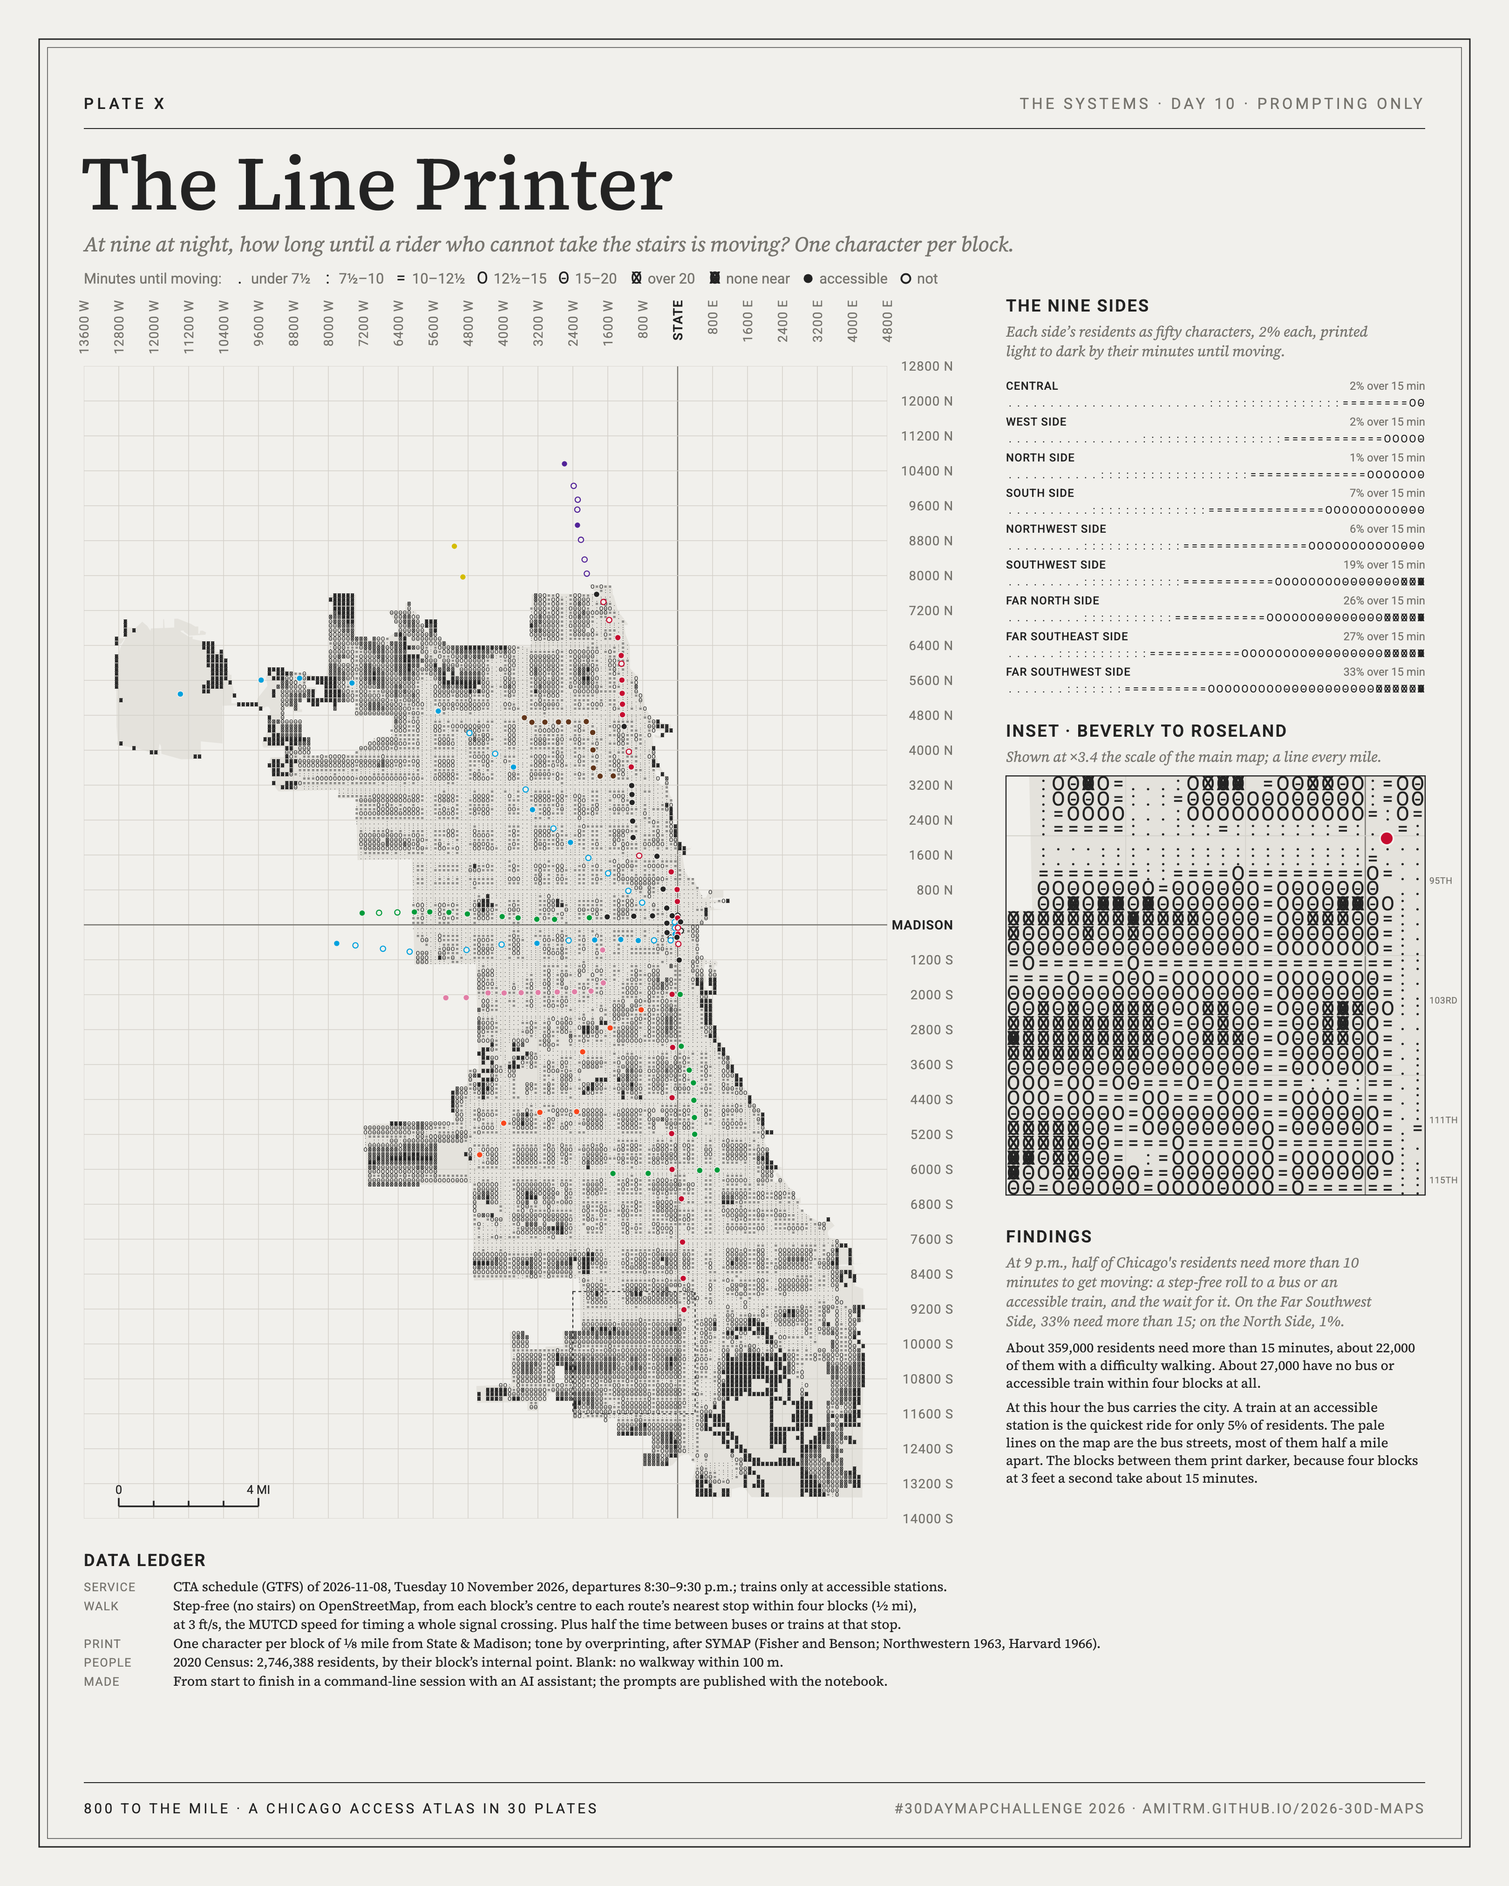
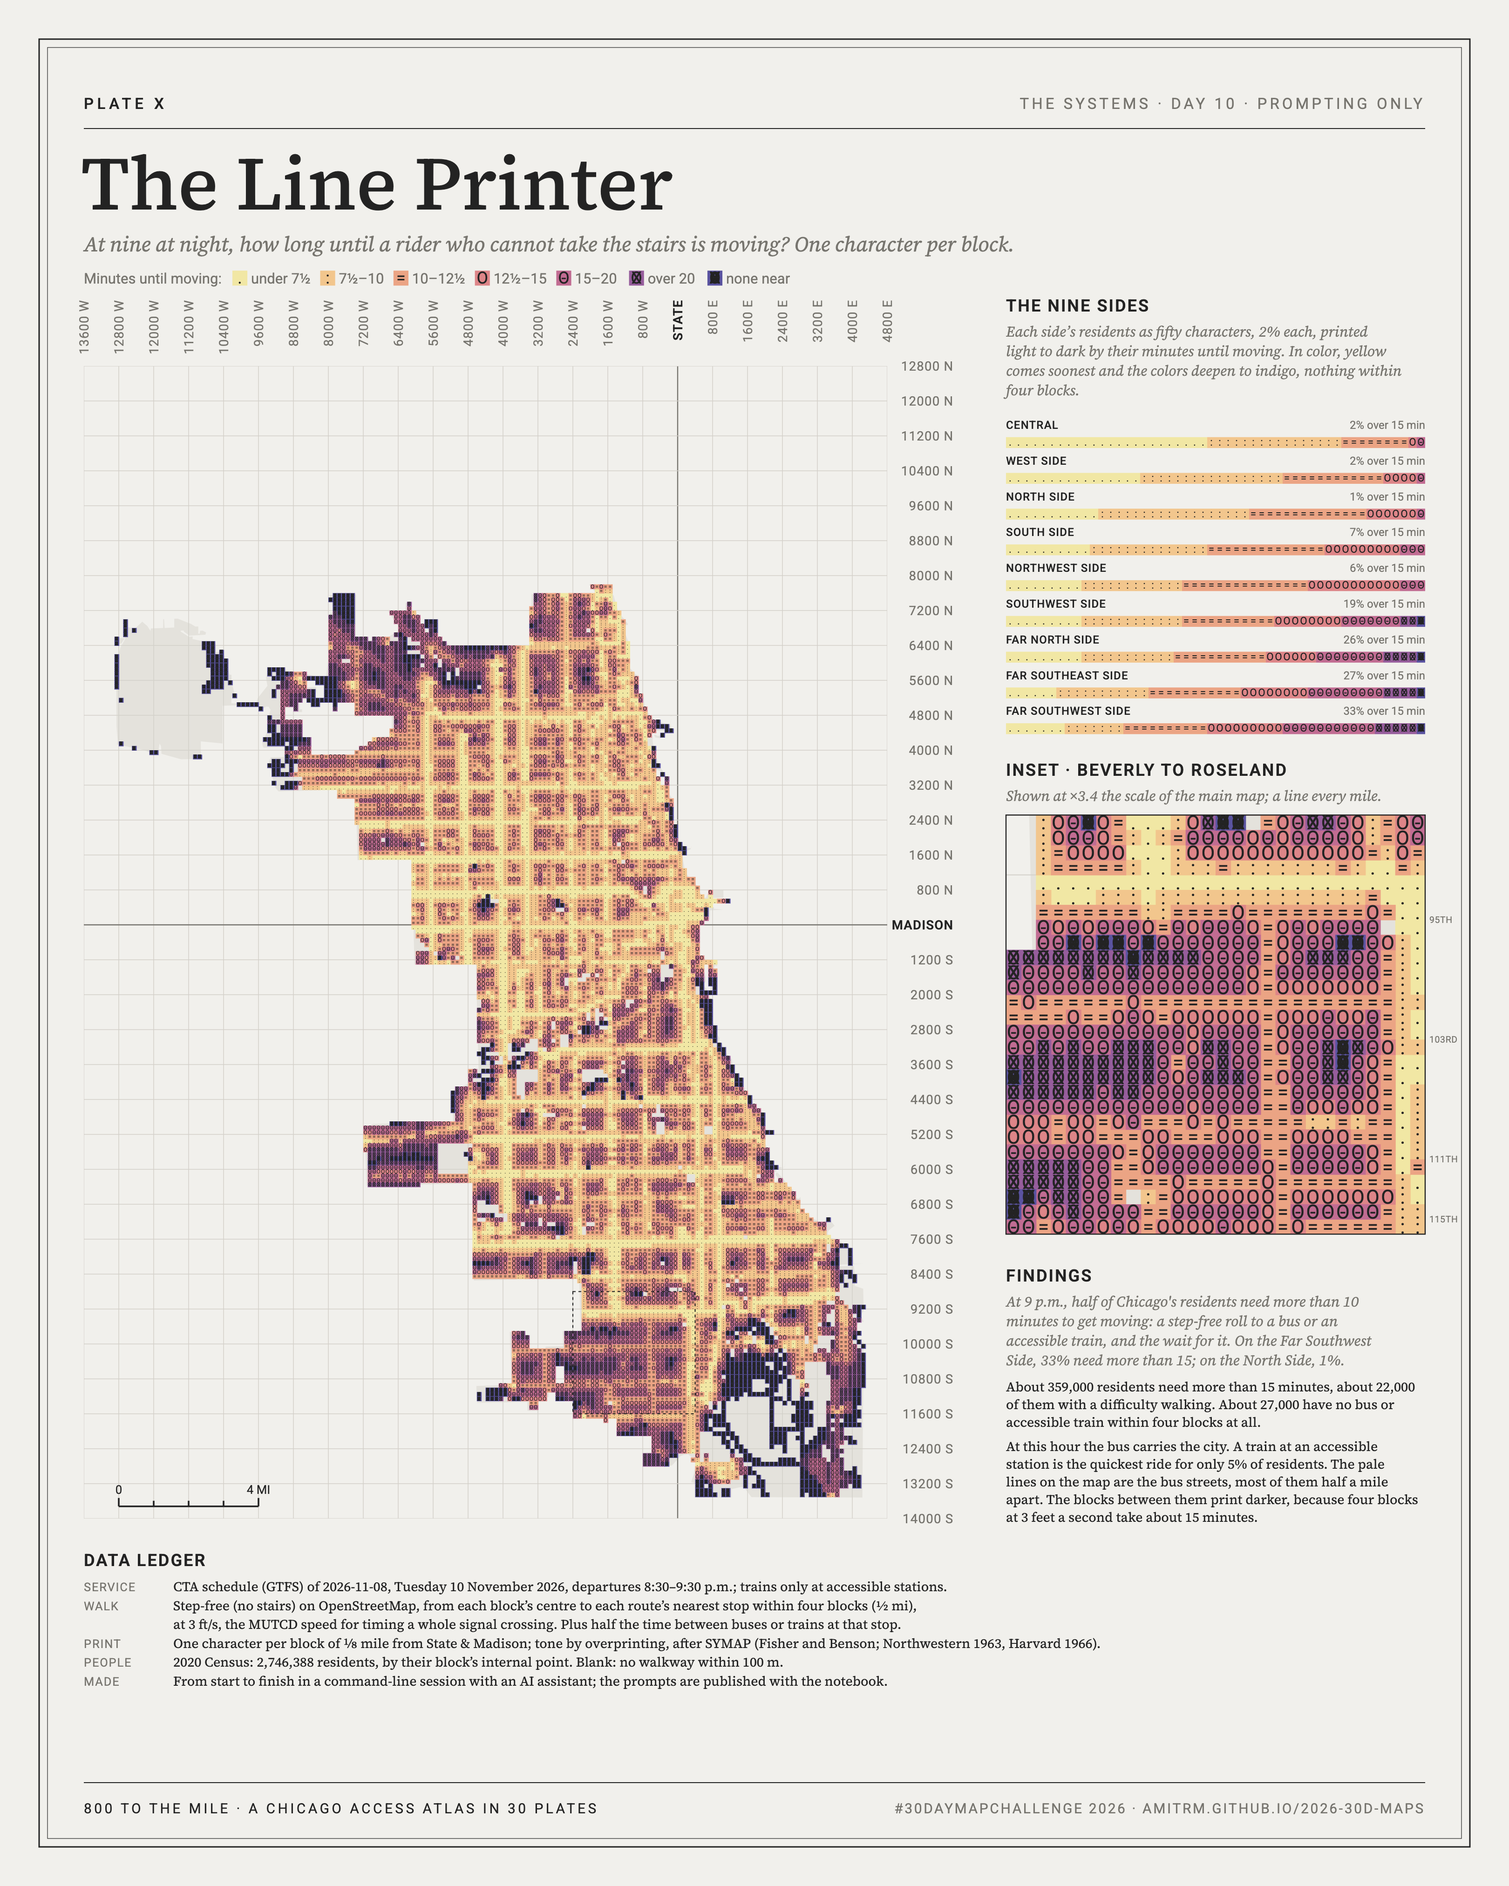
Day 10: Sunset color map under the print; no station marks

Changed region(s): [[0.6546, 0.1867, 0.9664, 0.8089], [0.1559, 0.3111, 0.5923, 0.8089], [0.1247, 0.3422, 0.1559, 0.3733]]

diff --git a/src/plates/day10.js b/src/plates/day10.js
@@ -14,9 +14,40 @@ import { formatAddress, gridLines, toMiles } from '../lib/grid.js';
 export const RAMP = [['.'], [':'], ['='], ['O'], ['O', '-'], ['O', 'X'], ['O', 'X', 'A', 'V']];
 export const SHORT = ['under 7½', '7½–10', '10–12½', '12½–15', '15–20', 'over 20', 'none within 4 blocks'];
 const W_COL = 300;
+const SHOW_STATIONS = false; // 'L' station marks off (user, 2026-11-13): the blocks carry the trains already
 const CELL = 1 / 8; // miles
 
-export function renderDay10(data, { mode = 'gray', variant = 'plate' } = {}) {
+// Color mode: the characters also take a one-hue ramp, light to dark with the ramp (OKLCH lightness
+// 0.70 -> 0.245, chroma peaking mid-ramp; each passes the ordinal check against paper). Grayscale: ink.
+export const AMYROSE = ['#7B8240', '#A5AD6B', '#D1D3A7', '#FDFBE6', '#E9C8C4', '#D494A3', '#C66D80'];
+export const SUNSET = ['#F1E7A4', '#F2C68D', '#EBA484', '#DD8588', '#C16C92', '#965D9C', '#5A53A0'];
+export const PALETTES = {
+  amyrose: AMYROSE,
+  sunset: SUNSET,
+  greenbar: ['#73AD93', '#4E9779', '#2B8262', '#006C4D', '#005639', '#004027', '#002A17'],
+  ribbon: ['#7DA1D0', '#5E88BF', '#4372AD', '#2B5C97', '#18467E', '#083262', '#012045'],
+  ditto: ['#A692CD', '#9077BC', '#7B5FA9', '#664893', '#51347A', '#3C225F', '#281343'],
+  ember: ['#D08C6D', '#BE6E4D', '#AC5332', '#953A1D', '#7B240D', '#601204', '#430401'],
+};
+// Sunset (the user's choice, 2026-11-13, replacing AmyRose): yellow -> peach -> rose -> violet -> indigo,
+// light to dark with the wait: yellow for the shortest, indigo where nothing is within four blocks.
+// Filled under the ink print in color mode.
+export const COLOR_RAMP = 'sunset';
+// Color maps for filling the blocks themselves (shade 'fill' or 'wash'), light to dark, sampled from
+// matplotlib's perceptual maps with the light end moved in so the shortest wait does not read as paper.
+export const COLORMAPS = {
+  magma: ['#FEBD82', '#FA7F5E', '#E04C67', '#AD347C', '#792282', '#471078', '#140E36'],
+  viridis: ['#DFE318', '#7AD151', '#2FB47C', '#21918C', '#2F6C8E', '#414487', '#471365'],
+  ylgnbu: ['#B7E3B6', '#73C8BD', '#3BB0C3', '#1E8BBD', '#225AA6', '#233390', '#081D58'],
+  cividis: ['#EAD34C', '#C2B369', '#9C9576', '#797977', '#595E6E', '#33446D', '#002B62'],
+};
+// mix a color toward paper: the wash under the printed characters
+export const tint = (hex, t = 0.55) => {
+  const a = [1, 3, 5].map((i) => parseInt(hex.slice(i, i + 2), 16)), b = [1, 3, 5].map((i) => parseInt(C.paper.slice(i, i + 2), 16));
+  return '#' + a.map((v, i) => Math.round(v * (1 - t) + b[i] * t).toString(16).padStart(2, '0')).join('').toUpperCase();
+};
+
+export function renderDay10(data, { mode = 'gray', variant = 'plate', palette, shade = 'print' } = {}) {
   const { rows, sides, summary, stations, boundary = [] } = data;
   const out = [];
   const isPlate = variant === 'plate';
@@ -28,6 +59,15 @@ export function renderDay10(data, { mode = 'gray', variant = 'plate' } = {}) {
   const T = isMap || isChart ? 1.3 : 1.15;
   const TI = isInset ? 1.35 : 1.15;
   const color = mode === 'color';
+  const ramp = color ? palette ?? PALETTES[COLOR_RAMP] ?? null : null;
+  const filled = ramp && shade !== 'glyph'; // blocks filled from the color map: 'print' fill + ink characters, 'fill' no characters, 'wash' tint + ink
+  const ink = (k) => (ramp && !filled ? ramp[k] : C.ink);
+  const blockFill = (k) => (shade === 'wash' ? tint(ramp[k]) : ramp[k]);
+  // a legend swatch for class k centred on (x, baseline y): the struck characters, on their fill when filled
+  const swatch = (k, x, y, size) => {
+    const box = filled ? `<rect x="${x - size * 0.45}" y="${y - size * 0.78}" width="${size * 0.9}" height="${size * 0.9}" fill="${blockFill(k)}"/>` : '';
+    return box + (shade === 'fill' ? '' : glyphs(RAMP[k], x, y, size, ink(k)));
+  };
   const ring = (r, fx, fy) => 'M' + r.map(([x, y]) => `${fx(x).toFixed(1)},${fy(y).toFixed(1)}`).join('L') + 'Z';
   const city = (fx, fy) => boundary.map((r) => ring(r, fx, fy)).join('');
 
@@ -35,20 +75,45 @@ export function renderDay10(data, { mode = 'gray', variant = 'plate' } = {}) {
   // Xm, Ym: miles to px; px: px per mile; box: miles to draw (with a cell's margin)
   const print = (Xm, Ym, px, box) => {
     const cell = px * CELL, fs = cell * 1.3;
+    if (filled) {
+      // one path per class: runs of same-class blocks along each row
+      const runs = Array.from({ length: 7 }, () => []);
+      for (const r of rows) {
+        const n0 = r.row * CELL;
+        if (n0 + CELL < box.south - CELL || n0 > box.north + CELL) continue;
+        const yTop = Ym(n0 + CELL);
+        for (let i = 0; i < r.s.length; ) {
+          const ch = r.s[i];
+          if (ch === ' ') { i++; continue; }
+          let j = i;
+          while (j + 1 < r.s.length && r.s[j + 1] === ch) j++;
+          const x0 = Xm((r.col + i) * CELL), w = Xm((r.col + j + 1) * CELL) - x0;
+          // a hair of overlap so neighbouring fills leave no paper seam when scaled
+          runs[+ch].push(`M${x0.toFixed(2)},${yTop.toFixed(2)}h${(w + 0.35).toFixed(2)}v${(cell + 0.35).toFixed(2)}h${(-w - 0.35).toFixed(2)}z`);
+          i = j + 1;
+        }
+      }
+      runs.forEach((d, k) => { if (d.length) out.push(`<path d="${d.join('')}" fill="${blockFill(k)}"/>`); });
+      if (shade === 'fill') return;
+    }
     const g = [`<g font-family="${SANS}" font-size="${fs.toFixed(2)}" fill="${C.ink}" text-anchor="middle" aria-hidden="true">`];
     for (const r of rows) {
       const n = (r.row + 0.5) * CELL;
       if (n < box.south - CELL || n > box.north + CELL) continue;
       const y = (Ym(n) + fs * 0.36).toFixed(1);
-      const layers = [[], [], [], []];
+      const layers = new Map(); // 'layer class' -> [[x, glyph]]
       for (let i = 0; i < r.s.length; i++) {
         const ch = r.s[i];
         if (ch === ' ') continue;
         const e = (r.col + i + 0.5) * CELL;
         if (e < box.west - CELL || e > box.east + CELL) continue;
-        RAMP[+ch].forEach((glyph, l) => layers[l].push([Xm(e).toFixed(1), glyph]));
+        const k = ramp && !filled ? +ch : 0;
+        RAMP[+ch].forEach((glyph, l) => { const key = `${l} ${k}`; if (!layers.has(key)) layers.set(key, []); layers.get(key).push([Xm(e).toFixed(1), glyph]); });
       }
-      for (const l of layers) if (l.length) g.push(`<text x="${l.map((d) => d[0]).join(' ')}" y="${y}">${esc(l.map((d) => d[1]).join(''))}</text>`);
+      for (const [key, l] of layers) {
+        const fill = ramp && !filled ? ` fill="${ramp[+key.split(' ')[1]]}"` : '';
+        g.push(`<text x="${l.map((d) => d[0]).join(' ')}" y="${y}"${fill}>${esc(l.map((d) => d[1]).join(''))}</text>`);
+      }
     }
     g.push('</g>');
     out.push(g.join(''));
@@ -99,7 +164,7 @@ export function renderDay10(data, { mode = 'gray', variant = 'plate' } = {}) {
     for (const x of g.xs) out.push(`<line x1="${X(x)}" x2="${X(x)}" y1="${fy0}" y2="${fy1}" stroke="${x === 0 ? C.pencil : C.grid}" stroke-width="${x === 0 ? 0.8 : 0.5}"/>`);
     for (const y of g.ys) out.push(`<line x1="${fx0}" x2="${fx1}" y1="${Y(y)}" y2="${Y(y)}" stroke="${y === 0 ? C.pencil : C.grid}" stroke-width="${y === 0 ? 0.8 : 0.5}"/>`);
     print(Xm, Ym, k, ext);
-    for (const s of [...stations].sort((a, b) => a.ada - b.ada)) out.push(station(s, X(s.x), Y(s.y), rMap));
+    if (SHOW_STATIONS) for (const s of [...stations].sort((a, b) => a.ada - b.ada)) out.push(station(s, X(s.x), Y(s.y), rMap));
     out.push(`<rect${hooks ? ` data-inset-frame data-y0="${+Ym(0).toFixed(2)}"` : ''} x="${Xm(ib.west)}" y="${Ym(ib.north)}" width="${(ib.east - ib.west) * k}" height="${(ib.north - ib.south) * k}" fill="none" stroke="${C.ink}" stroke-width="0.7" stroke-dasharray="2 2"/>`);
     out.push('</g>');
     const gridLabel = (v) => (v === 0 ? { fill: C.ink, weight: 600 } : { fill: C.pencil });
@@ -123,22 +188,22 @@ export function renderDay10(data, { mode = 'gray', variant = 'plate' } = {}) {
       out.push(text(lx, y, lead, { size: lgs, fill: C.pencil }));
       lx += textWidth(lead, lgs) + 8;
       SHORT.forEach((lab, i) => {
-        out.push(glyphs(RAMP[i], lx + 5, y, lgs * 1.15));
+        out.push(swatch(i, lx + 5, y, lgs * 1.15));
         out.push(text(lx + 13, y, i === 6 ? 'none near' : lab, { size: lgs, fill: C.pencil }));
         lx += 13 + textWidth(i === 6 ? 'none near' : lab, lgs) + 9;
       });
-      out.push(`<g transform="translate(${lx + 4} ${y - lgs * 0.35})">${dot(true)}</g>`);
-      out.push(text(lx + 12, y, 'accessible', { size: lgs, fill: C.pencil }));
-      lx += 12 + textWidth('accessible', lgs) + 9;
-      out.push(`<g transform="translate(${lx + 4} ${y - lgs * 0.35})">${dot(false)}</g>`);
-      out.push(text(lx + 12, y, 'not', { size: lgs, fill: C.pencil }));
+      if (SHOW_STATIONS) {
+        out.push(`<g transform="translate(${lx + 4} ${y - lgs * 0.35})">${dot(true)}</g>`);
+        out.push(text(lx + 12, y, 'accessible', { size: lgs, fill: C.pencil }));
+        lx += 12 + textWidth('accessible', lgs) + 9;
+        out.push(`<g transform="translate(${lx + 4} ${y - lgs * 0.35})">${dot(false)}</g>`);
+        out.push(text(lx + 12, y, 'not', { size: lgs, fill: C.pencil }));
+      }
     } else {
       const items = [
         ['head', 'Minutes until moving at 9 p.m.'],
-        ...SHORT.map((lab, i) => [glyphs(RAMP[i], 0, lgs * 0.4, lgs * 1.25), i === 6 ? 'Nothing within four blocks' : `${lab} minutes`]),
-        ['gap'],
-        [dot(true), 'Accessible ‘L’ station'],
-        [dot(false), 'Not accessible: not counted'],
+        ...SHORT.map((lab, i) => [swatch(i, 0, lgs * 0.4, lgs * 1.25), i === 6 ? 'Nothing within four blocks' : `${lab} minutes`]),
+        ...(SHOW_STATIONS ? [['gap'], [dot(true), 'Accessible ‘L’ station'], [dot(false), 'Not accessible: not counted']] : []),
       ];
       out.push(legendBox(items, { x: rx, bottom: fy1 - k, k, size: lgs }));
     }
@@ -163,7 +228,7 @@ export function renderDay10(data, { mode = 'gray', variant = 'plate' } = {}) {
     if (isPlate) {
       uy = Math.round(labelTop + 10.5 * T * 0.72);
       title(uy, CHART_TITLE.toUpperCase());
-      const noteLines = wrap(CHART_NOTE, Math.floor(cw / (ns * 0.45)));
+      const noteLines = wrap(filled ? `${CHART_NOTE} ${COLOR_NOTE}` : CHART_NOTE, Math.floor(cw / (ns * 0.45)));
       noteLines.forEach((l, i) => note(uy + (i + 1) * nh + 4, l));
       uy += noteLines.length * nh + 20;
     } else uy = 4;
@@ -176,10 +241,14 @@ export function renderDay10(data, { mode = 'gray', variant = 'plate' } = {}) {
       gs.push(text(mx, y0, s.side.toUpperCase(), { size: cs, weight: 500, spacing: 0.4 }));
       gs.push(text(mx + cw, y0, `${Math.round(s.over15 * 100)}% over 15 min`, { size: cs, anchor: 'end', fill: C.pencil }));
       const by = y0 + cs * 1.5;
-      const layers = [[], [], [], []];
+      if (filled) {
+        let c0 = 0;
+        counts.forEach((n, kk) => { if (n) gs.push(`<rect x="${(mx + c0 * cellW).toFixed(1)}" y="${(by - cellW * 1.02).toFixed(1)}" width="${(n * cellW).toFixed(1)}" height="${(cellW * 1.3).toFixed(1)}" fill="${blockFill(kk)}"/>`); c0 += n; });
+      }
+      const layers = new Map();
       let i = 0;
-      counts.forEach((n, kk) => { for (let j = 0; j < n; j++, i++) RAMP[kk].forEach((g, l) => layers[l].push([(mx + (i + 0.5) * cellW).toFixed(1), g])); });
-      for (const l of layers) if (l.length) gs.push(`<text x="${l.map((d) => d[0]).join(' ')}" y="${by.toFixed(1)}" font-family="${SANS}" font-size="${(cellW * 1.25).toFixed(2)}" fill="${C.ink}" text-anchor="middle">${esc(l.map((d) => d[1]).join(''))}</text>`);
+      counts.forEach((n, kk) => { for (let j = 0; j < n; j++, i++) RAMP[kk].forEach((g, l) => { const key = `${l} ${ramp ? kk : 0}`; if (!layers.has(key)) layers.set(key, []); layers.get(key).push([(mx + (i + 0.5) * cellW).toFixed(1), g]); }); });
+      for (const [key, l] of layers) gs.push(`<text x="${l.map((d) => d[0]).join(' ')}" y="${by.toFixed(1)}" font-family="${SANS}" font-size="${(cellW * 1.25).toFixed(2)}" fill="${ink(+key.split(' ')[1])}" text-anchor="middle">${esc(l.map((d) => d[1]).join(''))}</text>`);
       if (hooks) gs.push('</g>');
       out.push(gs.join(''));
       uy += rowH;
@@ -212,8 +281,8 @@ export function renderDay10(data, { mode = 'gray', variant = 'plate' } = {}) {
   for (let m = Math.ceil(lbm.south); m <= lbm.north; m++) out.push(`<line x1="${inset.x}" x2="${inset.x + inset.w}" y1="${IYm(m)}" y2="${IYm(m)}" stroke="${C.grid}" stroke-width="0.6"/>`);
   print(IXm, IYm, ki, lbm);
   const inI = (s) => toMiles(s.x, 'x') >= lbm.west && toMiles(s.x, 'x') <= lbm.east && toMiles(s.y, 'y') >= lbm.south && toMiles(s.y, 'y') <= lbm.north;
-  for (const s of stations.filter(inI)) out.push(station(s, IX(s.x), IY(s.y), isInset ? 5 : 4.2));
-  if (hooks) out.push(blockHooks(data.inset, IXm, IYm, ki, lbm));
+  if (SHOW_STATIONS) for (const s of stations.filter(inI)) out.push(station(s, IX(s.x), IY(s.y), isInset ? 5 : 4.2));
+  if (hooks) out.push(blockHooks(data.inset, IXm, IYm, ki, lbm, filled ? blockFill : null));
   out.push('</g>');
   // the bus streets that print pale, named beside their rows: in the margin on the plate, inside on the page
   const ss = 7 * TI;
@@ -264,12 +333,12 @@ export function renderDay10(data, { mode = 'gray', variant = 'plate' } = {}) {
 }
 
 // a ramp entry's characters struck on one spot (legend swatches)
-export function glyphs(chars, x, y, size) {
-  return chars.map((g) => `<text x="${x}" y="${y}" font-family="${SANS}" font-size="${size}" fill="${C.ink}" text-anchor="middle">${esc(g)}</text>`).join('');
+export function glyphs(chars, x, y, size, fill = C.ink) {
+  return chars.map((g) => `<text x="${x}" y="${y}" font-family="${SANS}" font-size="${size}" fill="${fill}" text-anchor="middle">${esc(g)}</text>`).join('');
 }
 
 // every inset block a hover target: its address, its minutes, the walk and the wait
-function blockHooks(inset, IXm, IYm, ki, box) {
+function blockHooks(inset, IXm, IYm, ki, box, fillOf) {
   const s = ki * CELL;
   const g = [];
   for (const [col, row, t, walkMin, every, ri] of inset.cells) {
@@ -279,7 +348,7 @@ function blockHooks(inset, IXm, IYm, ki, box) {
     const rows = t == null
       ? ['No bus or accessible train within four blocks at 9 p.m.']
       : [`${minutes(t)} until moving`, `${minutes(walkMin)} step-free walk to ${inset.routes[ri]}`, `then a ${ri != null && inset.routes[ri].endsWith('Line') ? 'train' : 'bus'} every ${minutes(every)}`];
-    g.push(`<rect x="${(IXm(e) - s / 2).toFixed(1)}" y="${(IYm(n) - s / 2).toFixed(1)}" width="${s.toFixed(1)}" height="${s.toFixed(1)}" fill="transparent" data-tip="${esc(blockName(col, row))}" data-name="${esc(blockName(col, row))}" data-shape="glyph" data-glyph="${RAMP[k].join('')}" data-detail="${esc(rows.join('|'))}"/>`);
+    g.push(`<rect x="${(IXm(e) - s / 2).toFixed(1)}" y="${(IYm(n) - s / 2).toFixed(1)}" width="${s.toFixed(1)}" height="${s.toFixed(1)}" fill="transparent" data-tip="${esc(blockName(col, row))}" data-name="${esc(blockName(col, row))}" data-shape="glyph" data-glyph="${RAMP[k].join('')}"${fillOf ? ` data-fill="${fillOf(k)}"` : ''} data-detail="${esc(rows.join('|'))}"/>`);
   }
   return g.join('');
 }
@@ -316,6 +385,7 @@ const sideMax = (sides) => sides.reduce((a, b) => (b.over15 > a.over15 ? b : a))
 const pctOf = (sides, f) => `${Math.round(Math[f](...sides.map((s) => s.over15)) * 100)}%`;
 
 export const CHART_TITLE = 'The nine sides';
+export const COLOR_NOTE = 'In color, yellow comes soonest and the colors deepen to indigo, nothing within four blocks.';
 export const CHART_NOTE = 'Each side’s residents as fifty characters, 2% each, printed light to dark by their minutes until moving.';
 export const INSET_STREETS = [[-8700, '87TH'], [-9500, '95TH'], [-10300, '103RD'], [-11100, '111TH'], [-11500, '115TH']];
 

diff --git a/src/plates/index.js b/src/plates/index.js
@@ -33,7 +33,7 @@ import { renderDay08, CHART_NOTE as D8_CHART_NOTE, chartTitle as d8ChartTitle, i
 import day09Data from '../../days/day09-urban-rural/output/plate.json';
 import { renderDay09, CHART_TITLE as D9_CHART_TITLE, CHART_NOTE as D9_CHART_NOTE, INSET_TITLE as D9_INSET, dayLong as d9Day } from './day09.js';
 import day10Data from '../../days/day10-prompting/output/plate.json';
-import { renderDay10, CHART_TITLE as D10_CHART_TITLE, CHART_NOTE as D10_CHART_NOTE, dayLong as d10Day } from './day10.js';
+import { renderDay10, CHART_TITLE as D10_CHART_TITLE, CHART_NOTE as D10_CHART_NOTE, COLOR_NOTE as D10_COLOR_NOTE, dayLong as d10Day } from './day10.js';
 import { renderDay07, CHART_NOTE as D7_CHART_NOTE, chartTitle as d7ChartTitle, insetTitle as d7InsetTitle, clock as d7Clock, dayLong as d7Day, hundreds as d7Hundreds, sortOutages as d7Sort } from './day07.js';
 
 const csv = (rows) =>
@@ -710,7 +710,7 @@ export const plates = {
       ['Made', 'From start to finish in one command-line session with an AI coding assistant: every prompt, verbatim.', 'https://github.com/amitrm/2026-30d-maps/blob/main/days/day10-prompting/prompts.md'],
     ],
     page: {
-      chart: { title: D10_CHART_TITLE, note: D10_CHART_NOTE },
+      chart: { title: D10_CHART_TITLE, note: D10_CHART_NOTE, colorNote: ` ${D10_COLOR_NOTE}` },
       inset: { title: `Inset · ${day10Data.inset.title}` },
     },
     csv: () =>
